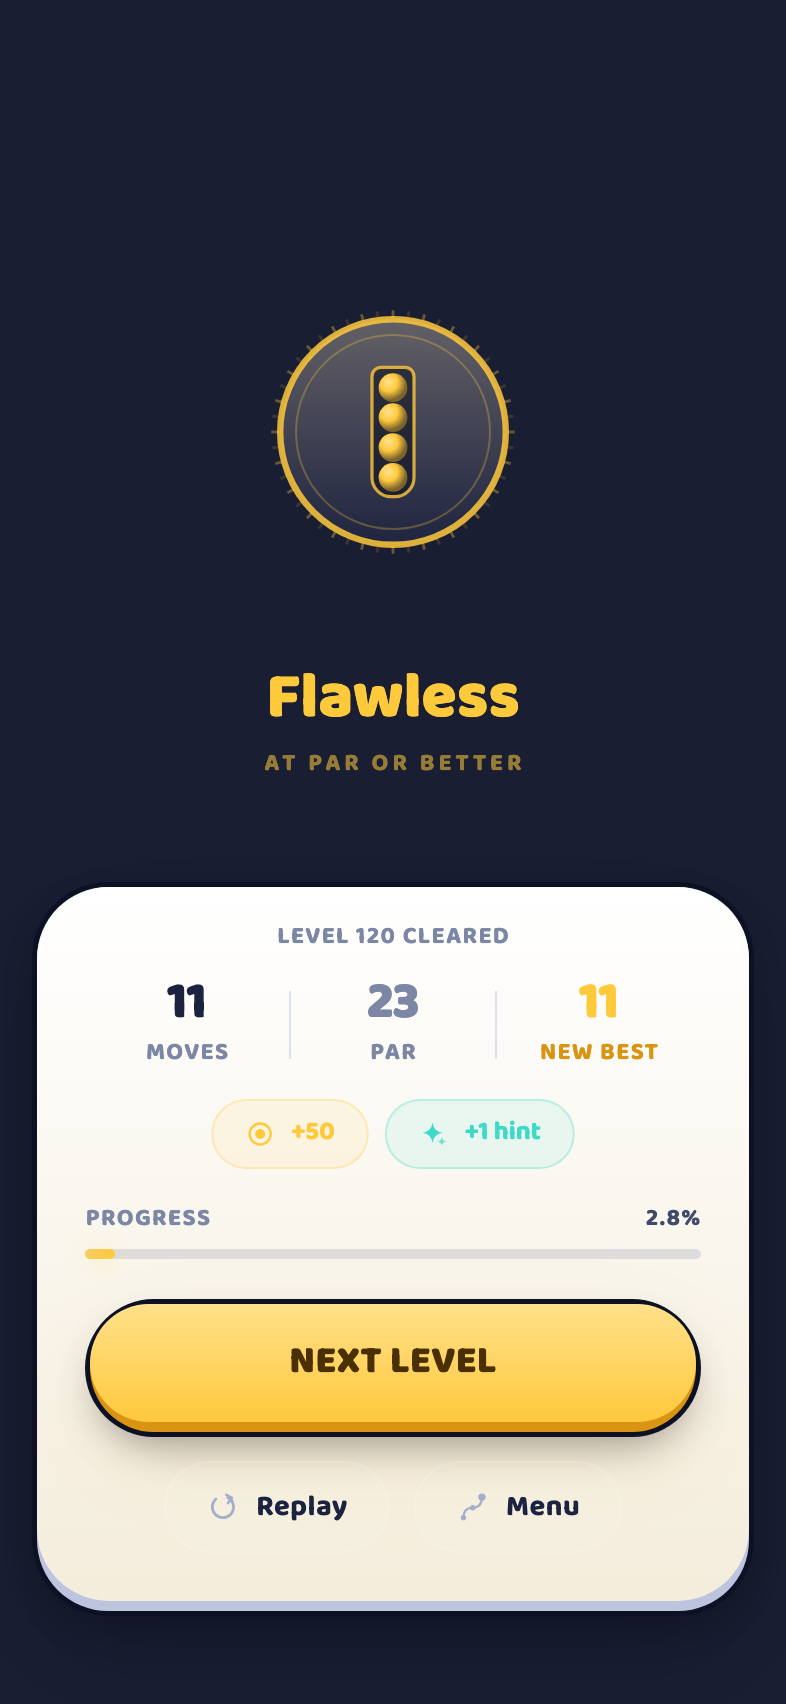
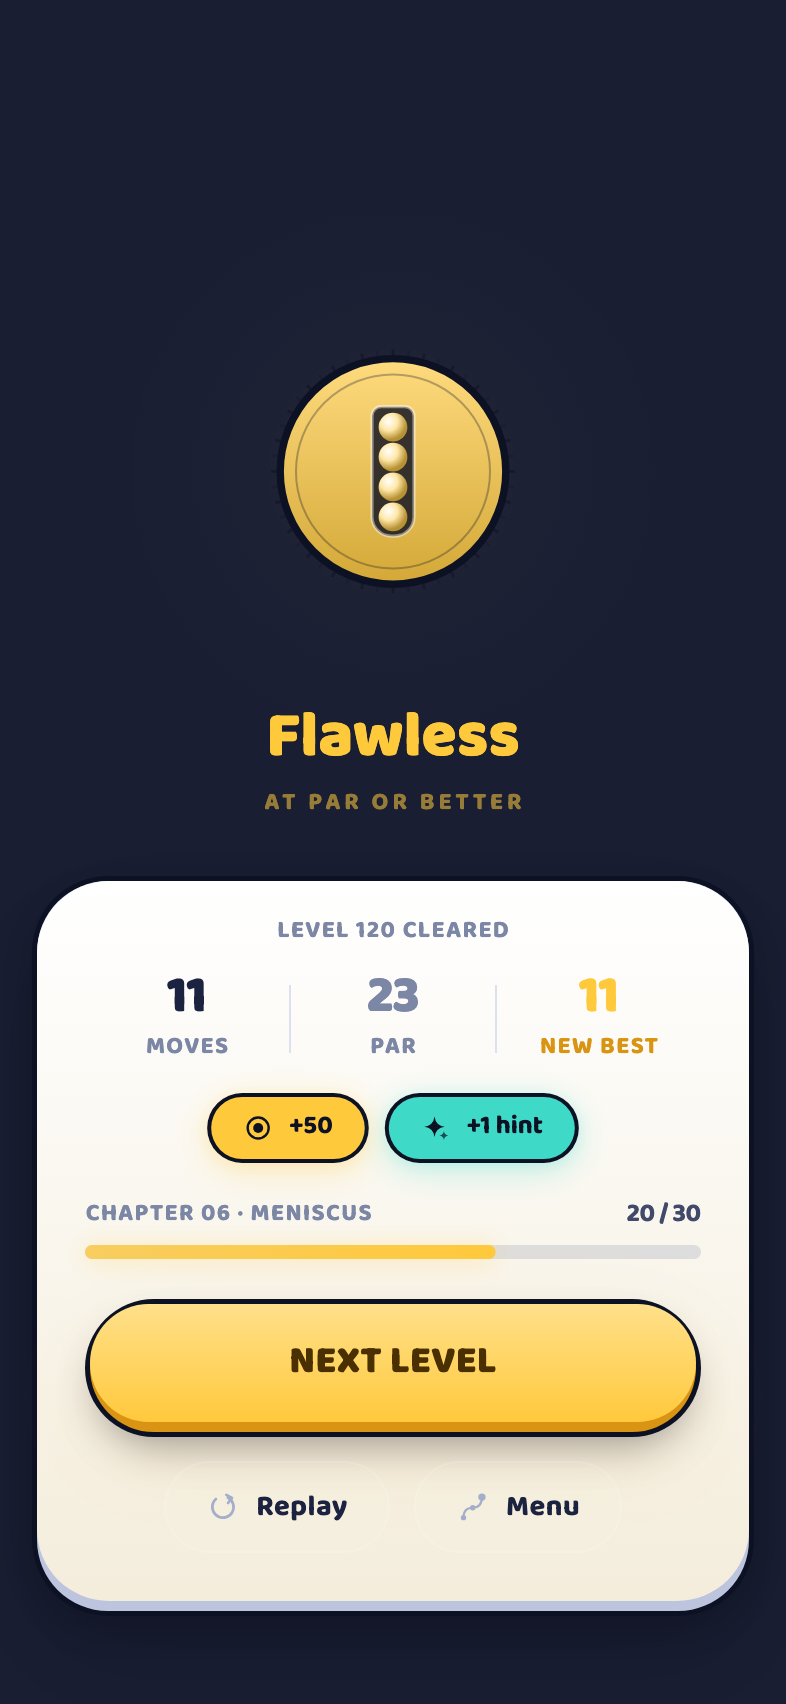
Make the clear screen celebrate, and stop it reporting 2.8%
The composition was defensible and the moment was not. Three things
were wrong with the screen the player sees more often than any other.

CONFETTI. The top half was empty ground with a mark floating in it.
The argument for putting the crest there rather than leaving a black
band above a bottom sheet was right, but a mark alone in a void is a
statement about the result rather than a celebration of it. Paper now
gets thrown once, behind everything: deterministic from an index hash,
so there is no RNG to seed, no state between frames and the goldens
render identically every run. Each piece spins about its own horizontal
axis, drawn by scaling its height by cos(spin), so a piece edge-on
collapses to a line and flashes the way real confetti catches light.
Better grades get more paper — the one reward signal on this screen
felt without being read. Gone by 80% of the animation, so it never
competes with the button being reached for.

THE SEAL was a dark disc with a small gold glyph, which at a glance
reads as a clock face. It is the reward; it has to be the brightest
object on the screen. The face is the grade's own colour now with the
vessel cut out dark inside it, the ring and the milling are the drawn
outline rather than more of the accent, and the burst behind it floors
at 30% instead of fading to nothing — it is the only light source back
there, and letting it go out is what left the settled screen looking
[…]

diff --git a/lib/ui/screens/level_complete.dart b/lib/ui/screens/level_complete.dart
@@ -208,12 +208,39 @@ class _LevelCompleteSheetState extends State<LevelCompleteSheet>
     return SafeArea(
       child: Stack(
         children: <Widget>[
+          // Paper, thrown once, behind everything.
+          //
+          // The top half of this screen was empty. The composition argument
+          // for putting the crest there was right, but a mark alone in a void
+          // is a *statement* about the result rather than a celebration of it,
+          // and this is the screen the player sees more than any other. The
+          // confetti costs one painter and is the difference between the game
+          // announcing a win and the game reacting to one.
+          Positioned.fill(
+            child: IgnorePointer(
+              child: RepaintBoundary(
+                child: AnimatedBuilder(
+                  animation: _c,
+                  builder: (BuildContext context, _) => CustomPaint(
+                    painter: _ConfettiPainter(t: _c.value, rank: grade.rank, accent: grade.color),
+                  ),
+                ),
+              ),
+            ),
+          ),
           Padding(
         padding: const EdgeInsets.fromLTRB(DS.s16, DS.s16, DS.s16, DS.s16),
         child: Column(
           children: <Widget>[
             Expanded(
-              child: Center(
+              // Low-centred, not centred. Once the confetti and the rays have
+              // gone the upper third is empty ground, and a mark floating in
+              // the middle of it leaves that emptiness on both sides. Dropped
+              // toward the card, the crest and the verdict read as one block
+              // sitting on it, and the empty space collects at the top edge
+              // where it works as air rather than as a gap.
+              child: Align(
+                alignment: const Alignment(0, 0.42),
                 child: AnimatedBuilder(
                   key: _crestKey,
                   animation: _c,
@@ -348,7 +375,10 @@ class _CrestPainter extends CustomPainter {
 
     // --- the burst behind the seal ----------------------------------------
     final double burst = Curves.easeOutCubic.transform((t / 0.5).clamp(0.0, 1.0));
-    final double burstFade = 1 - (t / 0.85).clamp(0.0, 1.0);
+    // Floors at 0.30 rather than fading to nothing. The burst is the only
+    // light source behind the seal, and letting it go out entirely is what
+    // left the settled screen looking like a mark on a flat wall.
+    final double burstFade = 1 - 0.70 * (t / 0.85).clamp(0.0, 1.0);
     if (burstFade > 0) {
       final double br = r * (1.0 + burst * 1.5);
       canvas.drawCircle(
@@ -377,9 +407,14 @@ class _CrestPainter extends CustomPainter {
         ..shader = ui.Gradient.linear(
           Offset(c.dx, c.dy - r),
           Offset(c.dx, c.dy + r),
+          // Was surfaceHigh barely tinted toward the accent, over surface:
+          // a dark disc with a small gold glyph on it, which at a glance
+          // reads as a clock face. The seal is the reward and has to be the
+          // brightest object on the screen, so the face is the grade's own
+          // colour and the vessel inside it is cut out dark.
           <Color>[
-            Color.lerp(DS.surfaceHigh, accent, 0.20)!,
-            DS.surface,
+            Color.lerp(accent, const Color(0xFFFFFFFF), 0.34)!,
+            Color.lerp(accent, DS.inkDeep, 0.18)!,
           ],
         ),
     );
@@ -395,7 +430,7 @@ class _CrestPainter extends CustomPainter {
           c + Offset(math.cos(a), math.sin(a)) * (r * 1.08),
           Paint()
             ..strokeWidth = 1.4
-            ..color = accent.withValues(alpha: i.isEven ? 0.34 : 0.14),
+            ..color = DS.outline.withValues(alpha: i.isEven ? 0.55 : 0.25),
         );
       }
     }
@@ -405,8 +440,8 @@ class _CrestPainter extends CustomPainter {
       r,
       Paint()
         ..style = PaintingStyle.stroke
-        ..strokeWidth = 2.0 + rank * 0.6
-        ..color = accent.withValues(alpha: 0.85),
+        ..strokeWidth = DS.stroke + rank * 0.6
+        ..color = DS.outline,
     );
     canvas.drawCircle(
       c,
@@ -414,7 +449,7 @@ class _CrestPainter extends CustomPainter {
       Paint()
         ..style = PaintingStyle.stroke
         ..strokeWidth = 1.0
-        ..color = accent.withValues(alpha: 0.28),
+        ..color = DS.outline.withValues(alpha: 0.30),
     );
 
     // --- the vessel at the centre -----------------------------------------
@@ -438,7 +473,7 @@ class _CrestPainter extends CustomPainter {
       bottomRight: Radius.circular(vw * 0.46),
     );
 
-    canvas.drawRRect(vessel, Paint()..color = DS.inkDeep.withValues(alpha: 0.55));
+    canvas.drawRRect(vessel, Paint()..color = DS.inkDeep.withValues(alpha: 0.82));
 
     // Balls, not a flat fill.
     //
@@ -468,9 +503,9 @@ class _CrestPainter extends CustomPainter {
             Offset(bc.dx - br * 0.3, bc.dy - br * 0.38),
             br * 1.25,
             <Color>[
-              Color.lerp(accent, const Color(0xFFFFFFFF), 0.45)!,
-              accent,
-              Color.lerp(accent, DS.inkDeep, 0.55)!,
+              const Color(0xFFFFFFFF),
+              Color.lerp(accent, const Color(0xFFFFFFFF), 0.55)!,
+              Color.lerp(accent, DS.inkDeep, 0.30)!,
             ],
             <double>[0.0, 0.5, 1.0],
           ),
@@ -483,7 +518,7 @@ class _CrestPainter extends CustomPainter {
       Paint()
         ..style = PaintingStyle.stroke
         ..strokeWidth = 1.6
-        ..color = accent.withValues(alpha: 0.8),
+        ..color = const Color(0xFFFFFFFF).withValues(alpha: 0.45),
     );
   }
 
@@ -631,24 +666,54 @@ class _ResultCard extends StatelessWidget {
               ),
             ),
           ],
+          // Chapter progress, not "2.8%".
+          //
+          // This row used to read PROGRESS / 2.8%, which is the same dashboard
+          // number the menu led with until it was taken off there — and it is
+          // worse here, because the moment the player has just won is the
+          // moment the game chooses to tell them they have done almost none of
+          // it. A thousand-level total can only ever produce a demoralising
+          // fraction. The chapter they are actually in is forty levels long,
+          // the bar visibly moves every single clear, and finishing one is a
+          // real event with a cosmetic behind it.
           if (!daily) ...<Widget>[
             const SizedBox(height: DS.s20),
-            Row(
-              children: <Widget>[
-                Text('PROGRESS', style: Type.labelInk),
-                const Spacer(),
-                Text(
-                  '${(overallAfter * 100).toStringAsFixed(1)}%',
-                  style: Type.labelInk.copyWith(color: DS.inkBody),
-                ),
-              ],
-            ),
-            const SizedBox(height: DS.s8),
-            _DelayedProgress(
-              animation: animation,
-              from: overallBefore,
-              to: overallAfter,
-              start: 0.42,
+            Builder(
+              builder: (BuildContext context) {
+                final Chapter ch = AppScope.of(context).catalog.chapterOf(level.id);
+                final int done = level.id - ch.from + 1;
+                final int size = ch.to - ch.from + 1;
+                return Column(
+                  crossAxisAlignment: CrossAxisAlignment.stretch,
+                  children: <Widget>[
+                    Row(
+                      children: <Widget>[
+                        Text(
+                          'CHAPTER ${ch.number.toString().padLeft(2, '0')} · ${ch.name.toUpperCase()}',
+                          style: Type.labelInk,
+                        ),
+                        const Spacer(),
+                        Text(
+                          '$done / $size',
+                          style: Type.numeralSm.copyWith(fontSize: 13, color: DS.inkBody),
+                        ),
+                      ],
+                    ),
+                    const SizedBox(height: DS.s8),
+                    _DelayedProgress(
+                      animation: animation,
+                      from: (done - 1) / size,
+                      to: done / size,
+                      start: 0.42,
+                      // Gold, not the grade's colour. How far through the
+                      // chapter the player is has nothing to do with how well
+                      // they solved this board — and a "Solved" grade is
+                      // silver, which on a white card made the bar disappear.
+                      color: DS.gold,
+                    ),
+                  ],
+                );
+              },
             ),
           ],
           const SizedBox(height: DS.s20),
@@ -766,20 +831,24 @@ class _Reward extends StatelessWidget {
             child: Transform.scale(
               scale: 0.8 + e * 0.2,
               child: Container(
-                padding: const EdgeInsets.symmetric(horizontal: DS.s16, vertical: DS.s8),
+                // A 10%-alpha tint on a near-white card made the payout the
+                // lowest-contrast thing on it. Solid, outlined and bevelled:
+                // what the player won should look like something won.
+                padding: const EdgeInsets.symmetric(horizontal: DS.s16, vertical: 7),
                 decoration: BoxDecoration(
                   borderRadius: BorderRadius.circular(DS.rPill),
-                  color: accent.withValues(alpha: 0.10),
-                  border: Border.all(color: accent.withValues(alpha: 0.28)),
+                  color: accent,
+                  border: Border.all(color: DS.outline, width: 2),
+                  boxShadow: DS.glow(accent, opacity: 0.30, blur: 14, y: 4),
                 ),
                 child: Row(
                   mainAxisSize: MainAxisSize.min,
                   children: <Widget>[
-                    DIcon(icon, size: 15, color: accent),
+                    DIcon(icon, size: 15, color: DS.outline),
                     const SizedBox(width: DS.s8),
                     Text(
                       label,
-                      style: Type.bodyStrong.copyWith(color: accent, fontSize: 13),
+                      style: Type.bodyStrong.copyWith(color: DS.outline, fontSize: 13),
                     ),
                   ],
                 ),
@@ -796,12 +865,14 @@ class _DelayedProgress extends StatelessWidget {
     required this.from,
     required this.to,
     required this.start,
+    required this.color,
   });
 
   final Animation<double> animation;
   final double from;
   final double to;
   final double start;
+  final Color color;
 
   @override
   Widget build(BuildContext context) => AnimatedBuilder(
@@ -811,7 +882,95 @@ class _DelayedProgress extends StatelessWidget {
           return ProgressTrack(
             value: from + (to - from) * Ease.emphasized.transform(t),
             duration: Duration.zero,
+            height: 7,
+            color: color,
           );
         },
       );
+}
+
+/// Paper thrown once, at the top of the sheet.
+///
+/// Deterministic: every piece's position, tint, spin and drift come from its
+/// index through a cheap hash, so there is no RNG to seed, no state to keep
+/// between frames, and the golden tests render the same picture every run.
+///
+/// It behaves like paper rather than like particles. Each piece is a thin
+/// rectangle spinning about its own horizontal axis, which is drawn by scaling
+/// its height by `cos(spin)` — so a piece edge-on collapses to a line and
+/// flashes, the way real confetti catches the light. Gravity is constant, drift
+/// is a slow sine, and the whole thing fades out well before the animation
+/// ends: the celebration has to be over before the player wants it to be.
+class _ConfettiPainter extends CustomPainter {
+  _ConfettiPainter({required this.t, required this.rank, required this.accent});
+
+  final double t;
+
+  /// Better results get more paper. It is the one reward signal on this screen
+  /// that is felt without being read.
+  final int rank;
+
+  final Color accent;
+
+  /// Cheap integer hash — deterministic, and good enough for scatter.
+  static double _r(int i, int salt) {
+    int h = i * 374761393 + salt * 668265263;
+    h = (h ^ (h >> 13)) * 1274126177;
+    return ((h ^ (h >> 16)) & 0x7FFFFFFF) / 0x7FFFFFFF;
+  }
+
+  @override
+  void paint(Canvas canvas, Size size) {
+    // Thrown from the moment the sheet opens and gone by 80%, so it never
+    // competes with the button the player is reaching for.
+    final double fade = 1 - ((t - 0.45) / 0.35).clamp(0.0, 1.0);
+    if (fade <= 0) return;
+
+    final int count = 26 + rank * 14;
+
+    for (int i = 0; i < count; i++) {
+      // Staggered launch, so the burst has a front edge rather than all
+      // appearing on one frame.
+      final double at = ((t - _r(i, 1) * 0.16) / 0.9).clamp(0.0, 1.0);
+      if (at <= 0) continue;
+
+      final double x0 = size.width * (0.08 + _r(i, 2) * 0.84);
+      // Up first, then down: a throw, not a drip.
+      final double vy = 0.55 + _r(i, 3) * 0.75;
+      final double y = size.height * (-0.06 + (-0.42 * at + 1.30 * at * at) * vy);
+      if (y > size.height) continue;
+
+      final double drift = math.sin(at * 5.0 + _r(i, 4) * 6.28) * size.width * 0.05;
+      final double spin = at * (7.0 + _r(i, 5) * 9.0) + _r(i, 6) * 6.28;
+
+      // Mostly the grade's colour so the screen has one identity, with the
+      // ball palette mixed through it so it still reads as confetti and not
+      // as one colour of litter.
+      final Color c = _r(i, 7) < 0.45
+          ? accent
+          : DS.hues[(i * 5 + 3) % DS.hues.length].base;
+
+      final double w = 5.0 + _r(i, 8) * 4.0;
+      final double h = w * (1.5 + _r(i, 9) * 1.1);
+
+      canvas.save();
+      canvas.translate(x0 + drift, y);
+      canvas.rotate(_r(i, 10) * 6.28 + at * 1.4);
+      // The spin. Collapsing the height by cos() turns the rectangle edge-on,
+      // which is the whole reason paper twinkles as it falls.
+      canvas.scale(1.0, math.cos(spin).abs().clamp(0.12, 1.0));
+      canvas.drawRRect(
+        RRect.fromRectAndRadius(
+          Rect.fromCenter(center: Offset.zero, width: w, height: h),
+          Radius.circular(w * 0.28),
+        ),
+        Paint()..color = c.withValues(alpha: fade * 0.9),
+      );
+      canvas.restore();
+    }
+  }
+
+  @override
+  bool shouldRepaint(_ConfettiPainter old) =>
+      old.t != t || old.rank != rank || old.accent != accent;
 }
